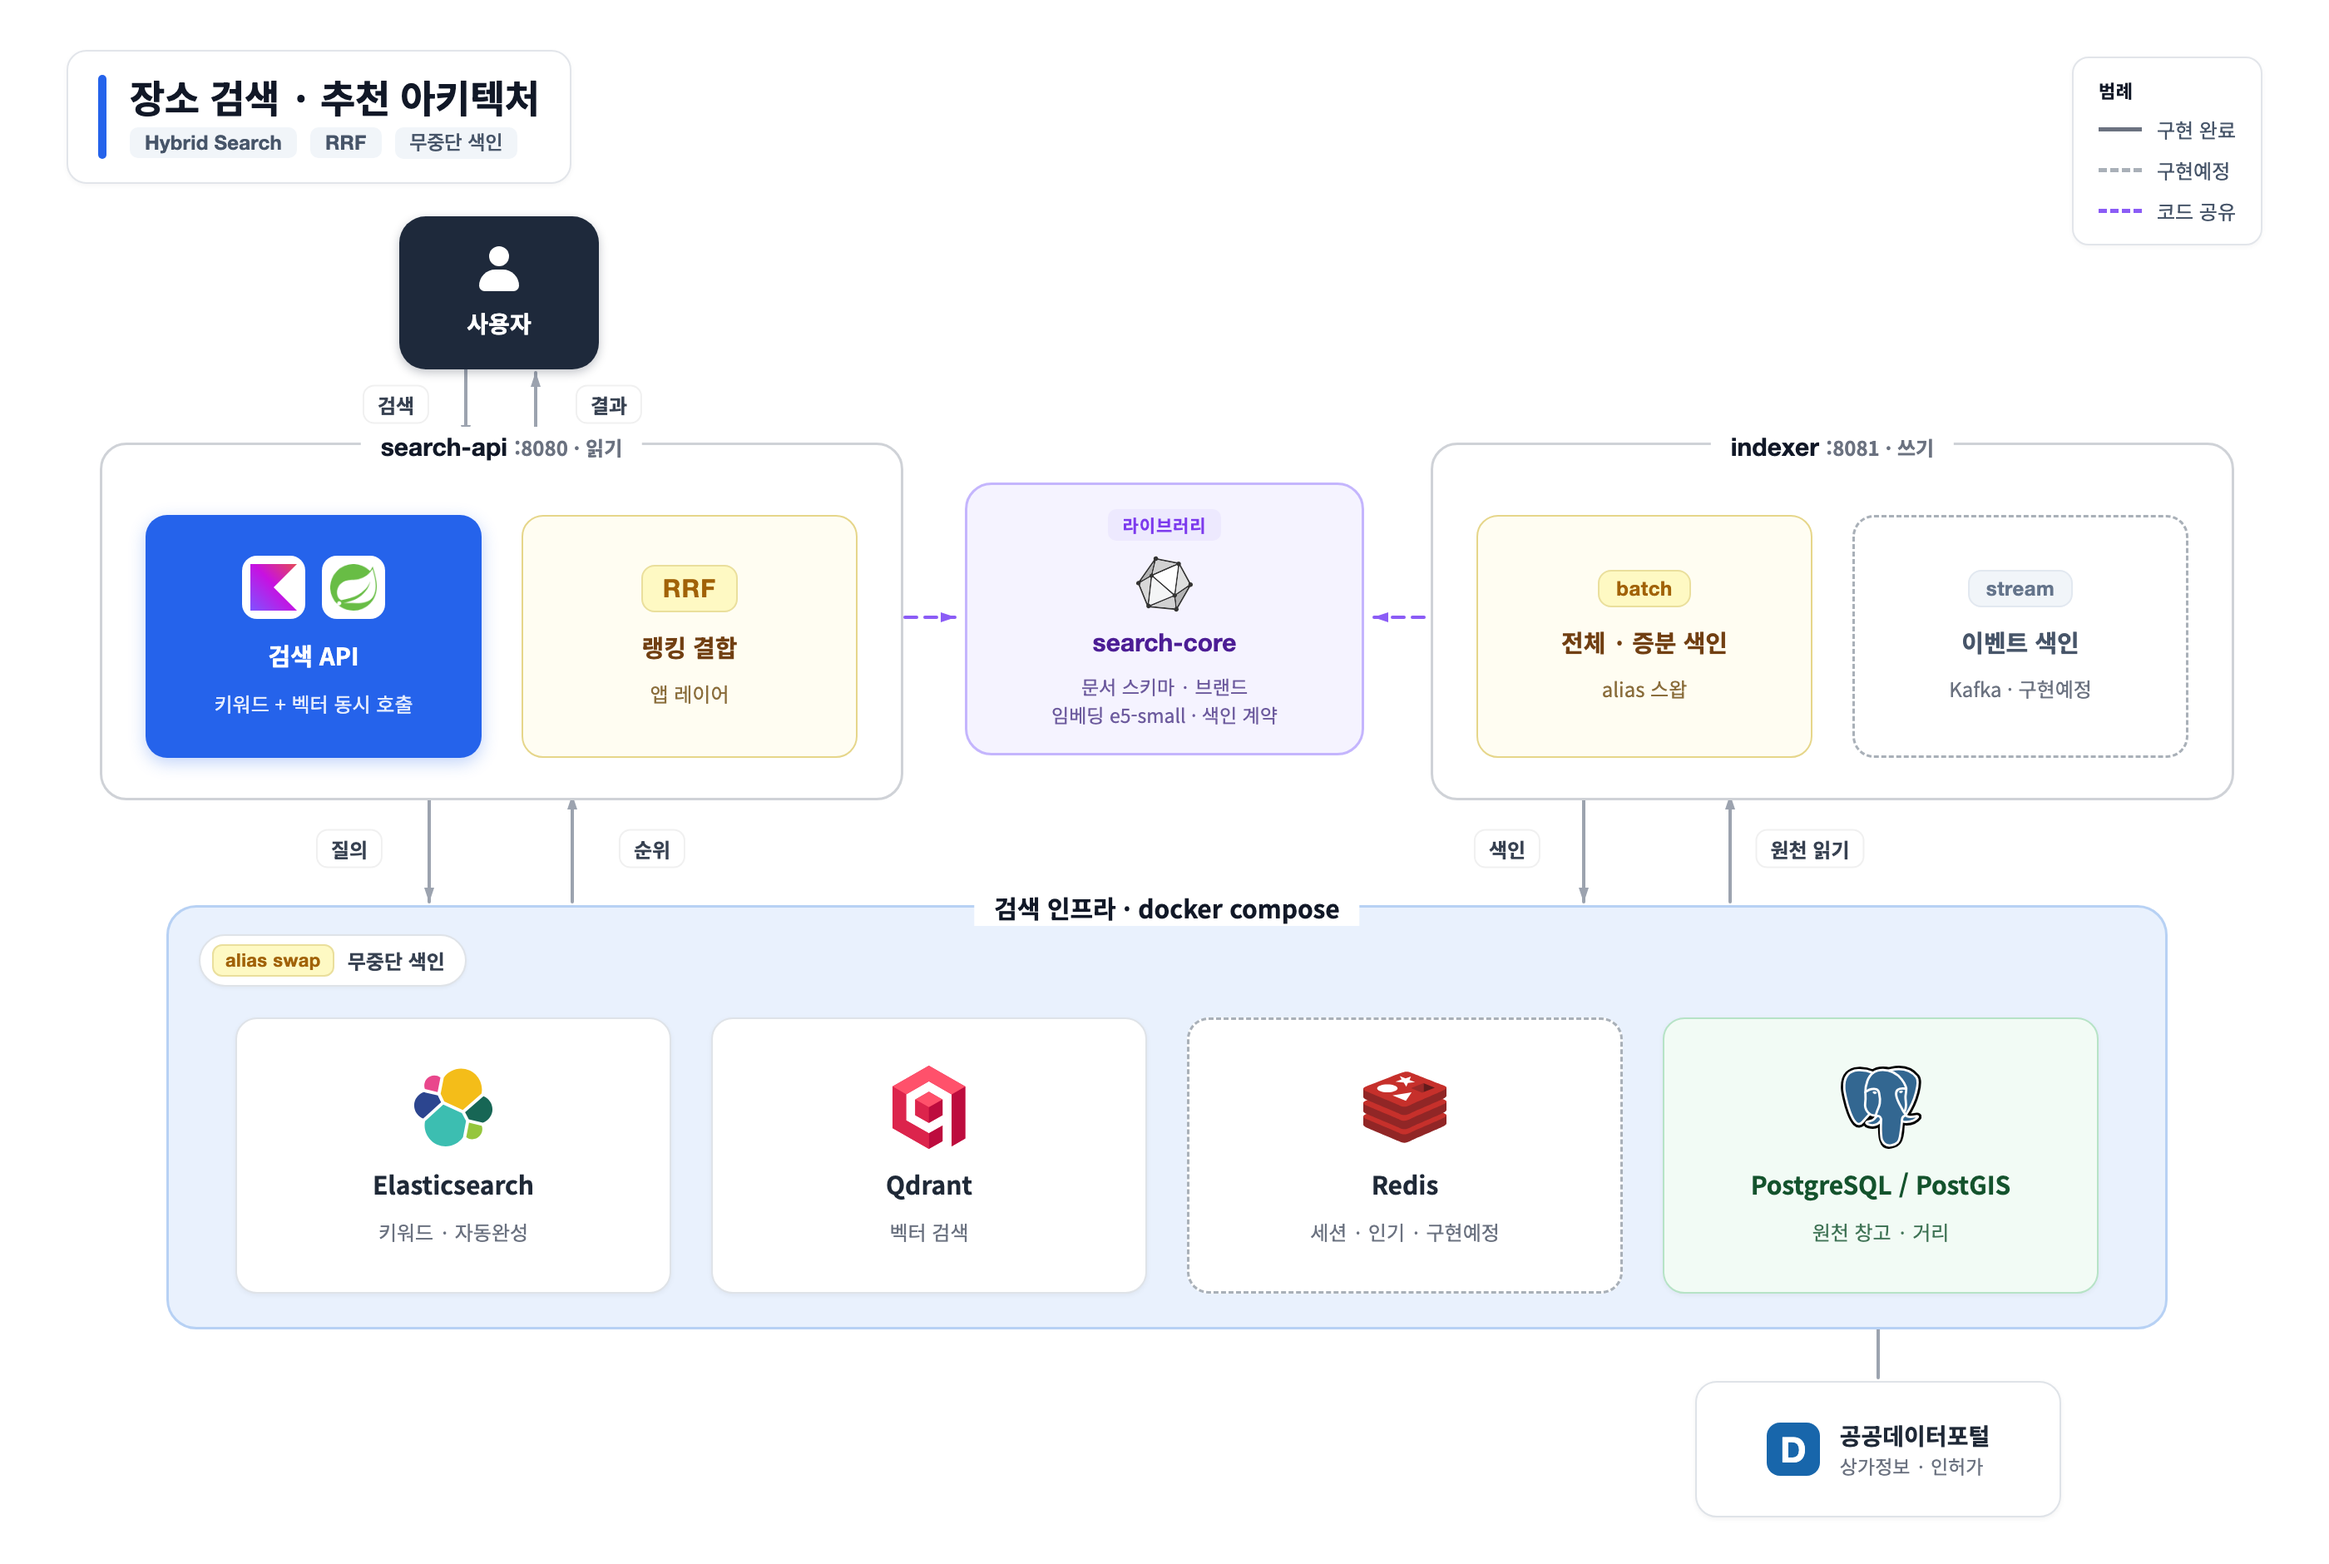
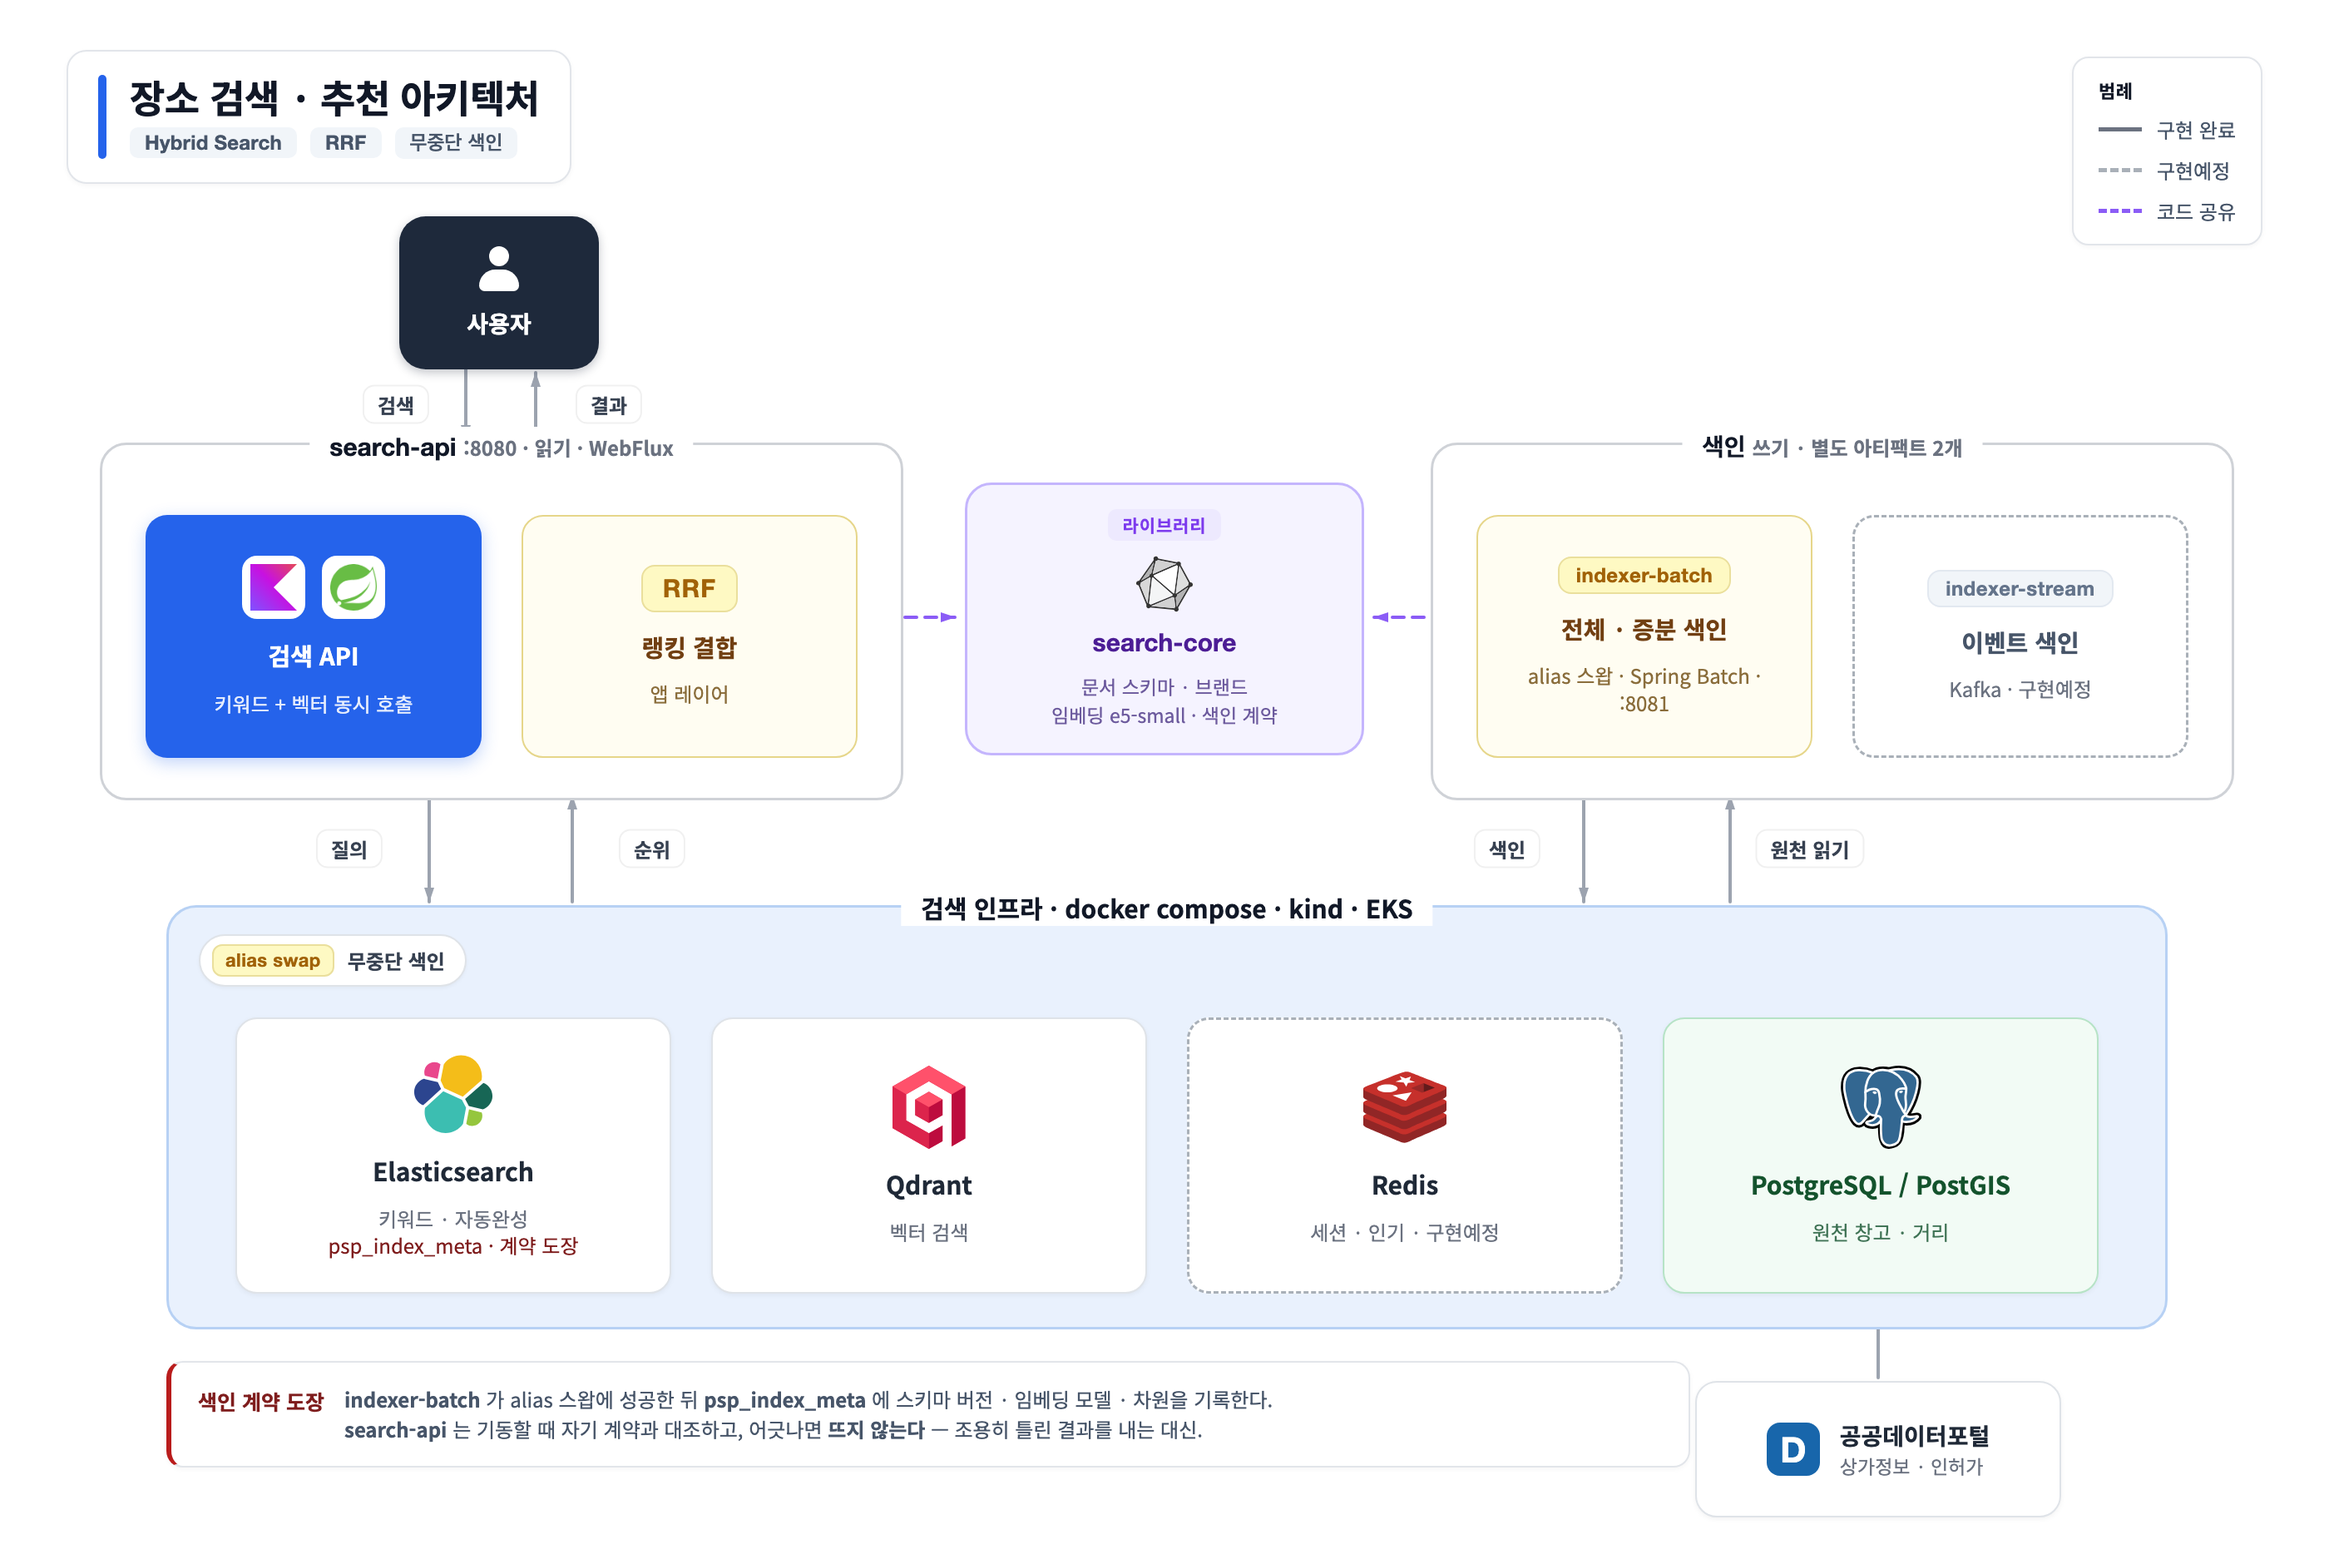
docs(diagram): 아키텍처 뷰 정정
- 색인기 2종의 별도 아티팩트 표기
- 버전 도장 추가

그림이 ADR 0011 의 핵심 주장과 반대로 읽히고 있었다.

## indexer 한 상자 → 별도 아티팩트 둘

전에는 `indexer :8081 · 쓰기` 상자 하나에 batch 와 stream 이 들어 있었다. 포트까지 하나로
붙어 있어서 **"한 앱을 런타임 플래그로 나눈 것"** 으로 읽힌다 — 이 프로젝트가 그만둔 방식이다.
상자는 그룹(`색인 · 쓰기 · 별도 아티팩트 2개`)으로 바꾸고 각 박스가 자기 이름을 갖게 했다.

  batch  → indexer-batch  (alias 스왑 · Spring Batch · :8081)
  stream → indexer-stream

두 앱의 런타임이 다르다는 것도 안 보였다. `search-api :8080 · 읽기 · WebFlux` 로 짝을 맞췄다.

## 버전 도장을 그렸다

모듈 분리의 안전장치인데 그림에 아예 없어서, 그림만 본 사람은 "읽기/쓰기를 나눈 것"까지만
이해했다. 두 곳에 넣었다.

  · Elasticsearch 노드에 `psp_index_meta · 계약 도장`
  · 하단 콜아웃 — 기록(색인기)과 대조(질의기, 기동 시)의 흐름

절대좌표(1400x940)가 빽빽해 화살표를 더 넣으면 기존 라벨(질의·순위)과 겹친다. 그래서 흐름은
비어 있던 하단에 콜아웃으로 뒀다.

## 그 밖

  검색 인프라 · docker compose  →  · kind · EKS 추가
  architecture.mmd 도 같은 구조로 맞춤 (.svg 를 가리키던 헤더 주석도 .png 로 정정)

README: Redis 를 기술 스택에 `(예정)` 으로 되살렸다. 그림에 점선으로 남아 있는데 표에서만
빠져 둘이 어긋나 있었다.

PNG 는 scripts/render_diagram.sh 로 재생성 (2800x1880).

Claude-Session: https://claude.ai/code/session_01Q7jQKmTgT7XVkiiaZR1JvU

diff --git a/docs/diagrams/architecture.dc.html b/docs/diagrams/architecture.dc.html
@@ -33,6 +33,15 @@
     </div>
   </div>
 
+  <!-- ===== 색인 계약 도장 (ADR 0011) ===== -->
+  <div style="position:absolute; left:100px; top:818px; width:880px; z-index:5; display:flex; gap:12px; align-items:flex-start; background:#fff; border:1px solid #e2e5ea; border-left:3px solid #b91c1c; border-radius:10px; padding:13px 16px; box-shadow:0 1px 3px rgba(0,0,0,0.04);">
+    <div style="font-size:12.5px; font-weight:800; color:#7f1d1d; white-space:nowrap; padding-top:1px;">색인 계약 도장</div>
+    <div style="font-size:12px; color:#475569; line-height:1.5;">
+      <b>indexer-batch</b> 가 alias 스왑에 성공한 뒤 <b>psp_index_meta</b> 에 스키마 버전 · 임베딩 모델 · 차원을 기록한다.<br>
+      <b>search-api</b> 는 기동할 때 자기 계약과 대조하고, 어긋나면 <b>뜨지 않는다</b> — 조용히 틀린 결과를 내는 대신.
+    </div>
+  </div>
+
   <!-- ===== LEGEND ===== -->
   <div style="position:absolute; top:34px; right:40px; z-index:5; display:flex; flex-direction:column; gap:7px; background:#fff; border:1px solid #e2e5ea; border-radius:10px; padding:11px 15px; font-size:12px; color:#475569; box-shadow:0 1px 3px rgba(0,0,0,0.04);">
     <div style="font-size:11px; font-weight:700; color:#111827; letter-spacing:0.02em;">범례</div>
@@ -91,7 +100,7 @@
 
   <!-- ===== 질의 앱 ===== -->
   <div style="position:absolute; z-index:3; left:60px; top:266px; width:480px; height:212px; background:#ffffff; border:1.5px solid #cfd2d7; border-radius:16px;">
-    <div style="position:absolute; top:-11px; left:240px; transform:translateX(-50%); background:#fff; padding:0 12px; font-size:15px; font-weight:700; white-space:nowrap; color:#111827;"><span style="font-family:'Helvetica Neue',Arial,sans-serif;">search-api</span> <span style="font-size:12px; color:#6b7280;">:8080 · 읽기</span></div>
+    <div style="position:absolute; top:-11px; left:240px; transform:translateX(-50%); background:#fff; padding:0 12px; font-size:15px; font-weight:700; white-space:nowrap; color:#111827;"><span style="font-family:'Helvetica Neue',Arial,sans-serif;">search-api</span> <span style="font-size:12px; color:#6b7280;">:8080 · 읽기 · WebFlux</span></div>
 
     <div style="position:absolute; left:26px; top:42px; width:202px; height:146px; background:{{accent}}; border-radius:13px; display:flex; flex-direction:column; align-items:center; justify-content:center; gap:11px; color:#ffffff; box-shadow:0 3px 10px rgba(37,99,235,0.28); box-sizing:border-box; padding:14px; text-align:center;">
       <div style="display:flex; gap:10px;">
@@ -119,16 +128,16 @@
 
   <!-- ===== 색인 앱 ===== -->
   <div style="position:absolute; z-index:3; left:860px; top:266px; width:480px; height:212px; background:#ffffff; border:1.5px solid #cfd2d7; border-radius:16px;">
-    <div style="position:absolute; top:-11px; left:240px; transform:translateX(-50%); background:#fff; padding:0 12px; font-size:15px; font-weight:700; white-space:nowrap; color:#111827;"><span style="font-family:'Helvetica Neue',Arial,sans-serif;">indexer</span> <span style="font-size:12px; color:#6b7280;">:8081 · 쓰기</span></div>
+    <div style="position:absolute; top:-11px; left:240px; transform:translateX(-50%); background:#fff; padding:0 12px; font-size:15px; font-weight:700; white-space:nowrap; color:#111827;"><span style="font-family:'Helvetica Neue',Arial,sans-serif;">색인</span> <span style="font-size:12px; color:#6b7280;">쓰기 · 별도 아티팩트 2개</span></div>
 
     <div style="position:absolute; left:26px; top:42px; width:202px; height:146px; background:#fffdf2; border:1.2px solid #e6d68a; border-radius:13px; display:flex; flex-direction:column; align-items:center; justify-content:center; gap:10px; box-sizing:border-box; padding:14px; text-align:center;">
-      <div style="font-family:'Helvetica Neue',Arial,sans-serif; font-size:12px; font-weight:800; letter-spacing:0.02em; color:#a16207; background:#fef9c3; border:1px solid #eadf9c; border-radius:8px; padding:3px 10px;">batch</div>
+      <div style="font-family:'Helvetica Neue',Arial,sans-serif; font-size:12px; font-weight:800; letter-spacing:0.02em; color:#a16207; background:#fef9c3; border:1px solid #eadf9c; border-radius:8px; padding:3px 10px;">indexer-batch</div>
       <div style="font-size:14.5px; font-weight:700; color:#713f12;">전체 · 증분 색인</div>
-      <div style="font-size:12px; color:#8a6d3b; line-height:1.35;">alias 스왑</div>
+      <div style="font-size:12px; color:#8a6d3b; line-height:1.35;">alias 스왑 · Spring Batch · :8081</div>
     </div>
 
     <div style="position:absolute; left:252px; top:42px; width:202px; height:146px; background:#fff; border:1.5px dashed #a9b0b8; border-radius:13px; display:flex; flex-direction:column; align-items:center; justify-content:center; gap:10px; box-sizing:border-box; padding:14px; text-align:center;">
-      <div style="font-family:'Helvetica Neue',Arial,sans-serif; font-size:12px; font-weight:800; letter-spacing:0.02em; color:#64748b; background:#f1f5f9; border:1px solid #e2e8f0; border-radius:8px; padding:3px 10px;">stream</div>
+      <div style="font-family:'Helvetica Neue',Arial,sans-serif; font-size:12px; font-weight:800; letter-spacing:0.02em; color:#64748b; background:#f1f5f9; border:1px solid #e2e8f0; border-radius:8px; padding:3px 10px;">indexer-stream</div>
       <div style="font-size:14.5px; font-weight:700; color:#475569;">이벤트 색인</div>
       <div style="font-size:12px; color:#6b7280; line-height:1.35;">Kafka · 구현예정</div>
     </div>
@@ -136,7 +145,7 @@
 
   <!-- ===== 검색 인프라 ===== -->
   <div style="position:absolute; z-index:3; left:100px; top:544px; width:1200px; height:252px; background:#e9f1fd; border:1.5px solid #b7d1f4; border-radius:18px;">
-    <div style="position:absolute; top:-11px; left:600px; transform:translateX(-50%); background:#fff; padding:0 12px; font-size:15px; font-weight:700; white-space:nowrap; color:#111827;">검색 인프라 · docker compose</div>
+    <div style="position:absolute; top:-11px; left:600px; transform:translateX(-50%); background:#fff; padding:0 12px; font-size:15px; font-weight:700; white-space:nowrap; color:#111827;">검색 인프라 · docker compose · kind · EKS</div>
 
     <div style="position:absolute; top:16px; left:18px; display:flex; align-items:center; gap:8px; background:#fff; color:#374151; border:1.2px solid #dfe3e8; padding:5px 12px 5px 7px; border-radius:20px; font-size:12px; font-weight:600; box-shadow:0 1px 2px rgba(0,0,0,0.04);">
       <span style="font-family:'Helvetica Neue',Arial,sans-serif; font-size:11px; font-weight:800; letter-spacing:0.02em; color:#a16207; background:#fef9c3; border:1px solid #eadf9c; border-radius:6px; padding:2px 7px;">alias swap</span>
@@ -146,7 +155,7 @@
     <div style="position:absolute; left:40px; top:66px; width:262px; height:166px; background:#fff; border:1.2px solid #dfe3e8; border-radius:13px; display:flex; flex-direction:column; align-items:center; justify-content:center; gap:10px; box-sizing:border-box; padding:16px; text-align:center; box-shadow:0 1px 3px rgba(0,0,0,0.05);">
       <div style="width:50px; height:50px;"><img src="uploads/elasticsearch-logo-svgrepo-com.svg" alt="Elasticsearch" style="width:100%; height:100%; object-fit:contain;"></div>
       <div style="font-size:15px; font-weight:700;">Elasticsearch</div>
-      <div style="font-size:12px; color:#6b7280; line-height:1.35;">키워드 · 자동완성</div>
+      <div style="font-size:12px; color:#6b7280; line-height:1.35;">키워드 · 자동완성<br><span style="color:#7f1d1d;">psp_index_meta · 계약 도장</span></div>
     </div>
     <div style="position:absolute; left:326px; top:66px; width:262px; height:166px; background:#fff; border:1.2px solid #dfe3e8; border-radius:13px; display:flex; flex-direction:column; align-items:center; justify-content:center; gap:10px; box-sizing:border-box; padding:16px; text-align:center; box-shadow:0 1px 3px rgba(0,0,0,0.05);">
       <div style="width:50px; height:50px;"><img src="uploads/qdrant-e8227184.svg" alt="Qdrant" style="width:100%; height:100%; object-fit:contain;"></div>

diff --git a/README.md b/README.md
@@ -220,6 +220,7 @@ search-core     두 앱이 어긋나면 조용히 틀려지는 것만 (계약)
 | 원천 | PostgreSQL / PostGIS |
 | 배포 | Docker Compose · Kubernetes (kustomize · kind · EKS) |
 | 관측 | Micrometer · Prometheus |
+| 세션 · 인기 | Redis *(예정)* |
 
 ---
 
